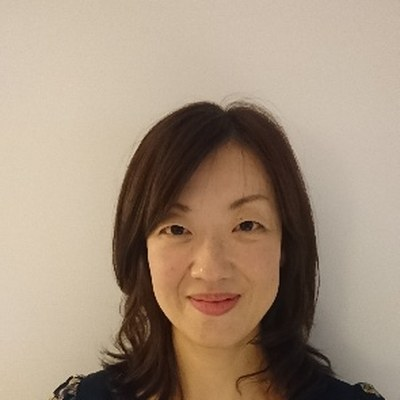
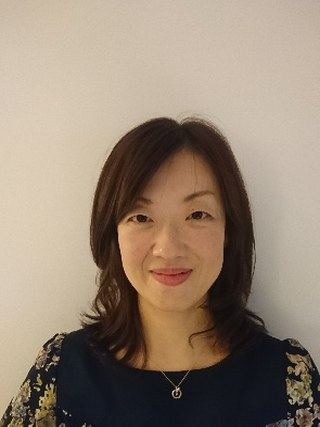
岩城先生写真：少し遠ざけ・顎まで見えるよう縦長クロップに変更

diff --git a/index.html b/index.html
@@ -898,7 +898,7 @@ body.high-contrast{filter:contrast(1.55) brightness(0.95)}
     <div class="spk-grid reveal">
 
       <div class="spk-card">
-        <img class="spk-photo" src="speaker-iwaki.jpg?v=4" alt="岩城忍先生" loading="lazy">
+        <img class="spk-photo" src="speaker-iwaki.jpg?v=5" alt="岩城忍先生" loading="lazy">
         <div class="spk-body">
           <span class="spk-day d2">8/2 Part 2</span>
           <div class="spk-dept">🗣 言語聴覚士</div>
